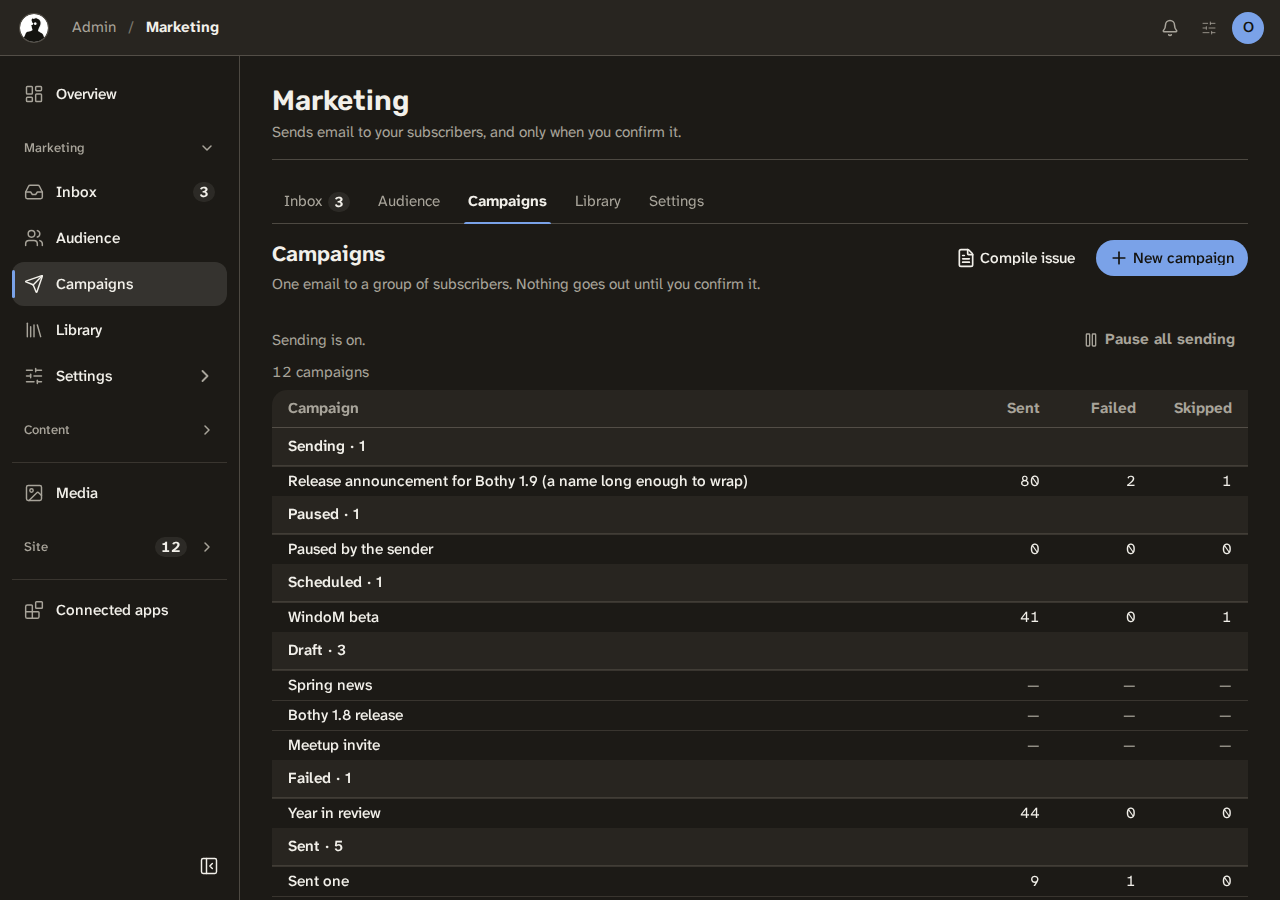
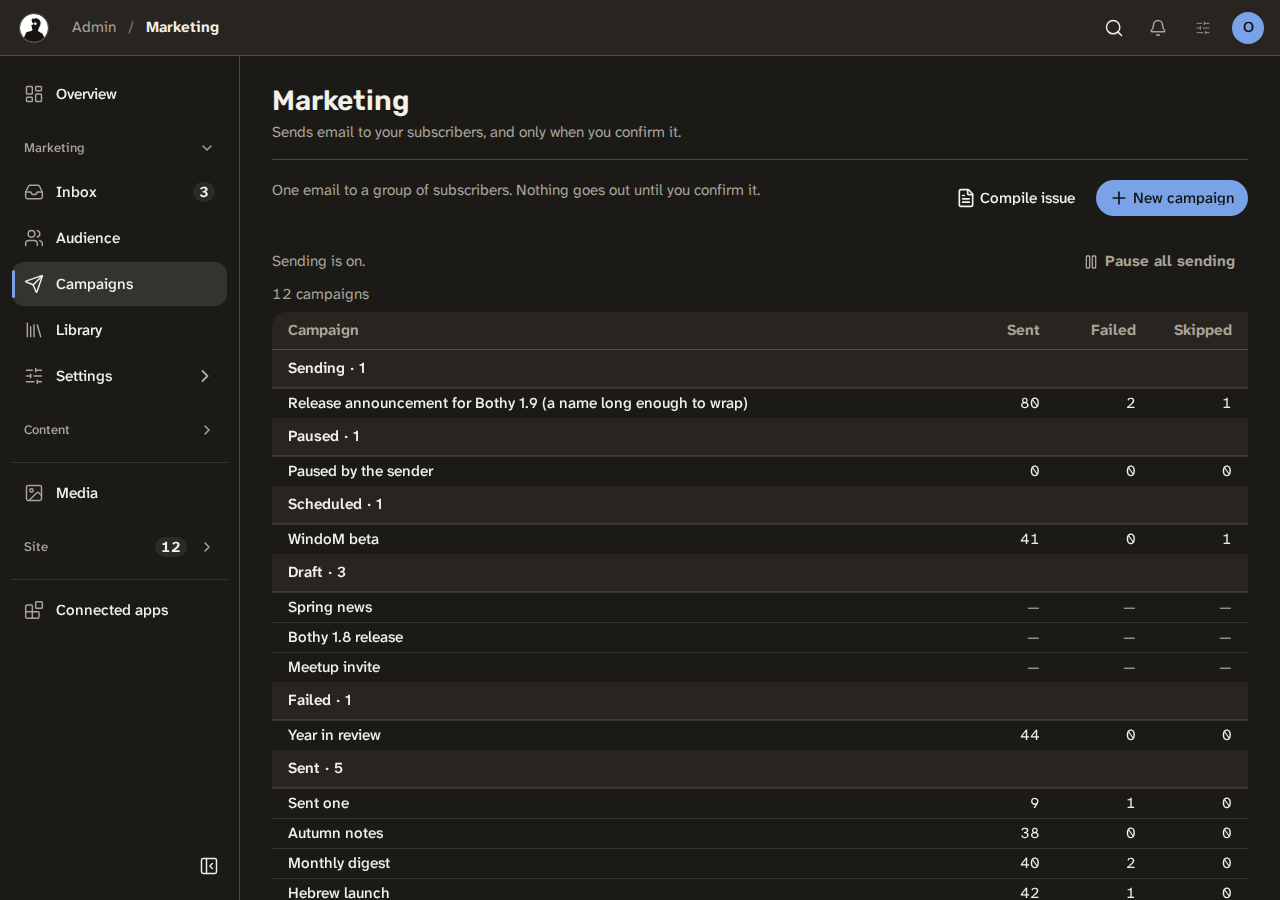
Admin S3: one h1, Campaigns heading is screen-reader only; refresh shots (#842)
Claude-Session: https://claude.ai/code/session_013rV123XfZGHGiHaRnzMqnR

diff --git a/web/src/components/admin/announce/campaigns/CampaignsTab.tsx b/web/src/components/admin/announce/campaigns/CampaignsTab.tsx
@@ -122,8 +122,8 @@ export default function CampaignsTab() {
         <>
           <div className="flex flex-wrap items-start justify-between gap-3">
             <div>
-              <h2 className="display-tight text-xl">{w.heading}</h2>
-              <p className="a-hint">{w.intro}</p>
+              <h2 className="sr-only">{w.heading}</h2>
+              <p className="a-hint !mt-0">{w.intro}</p>
             </div>
             {actionBar}
           </div>
